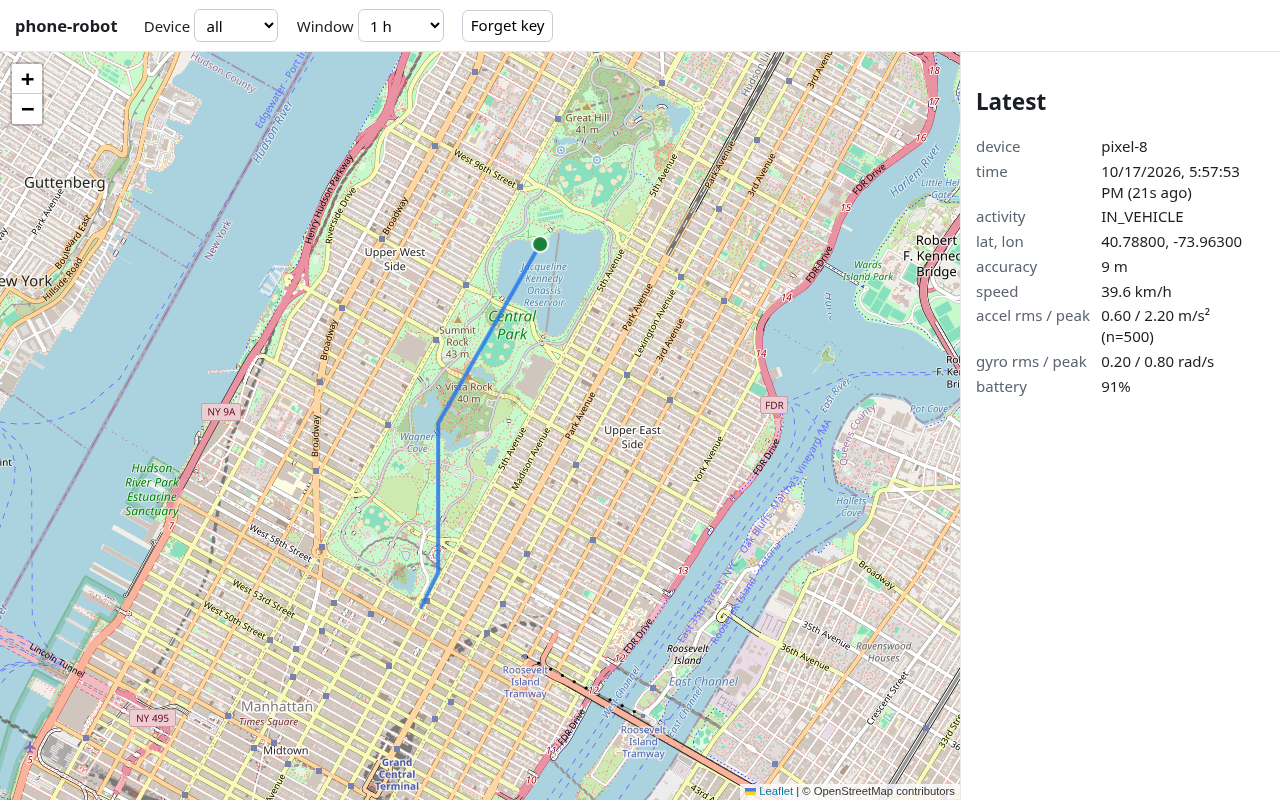
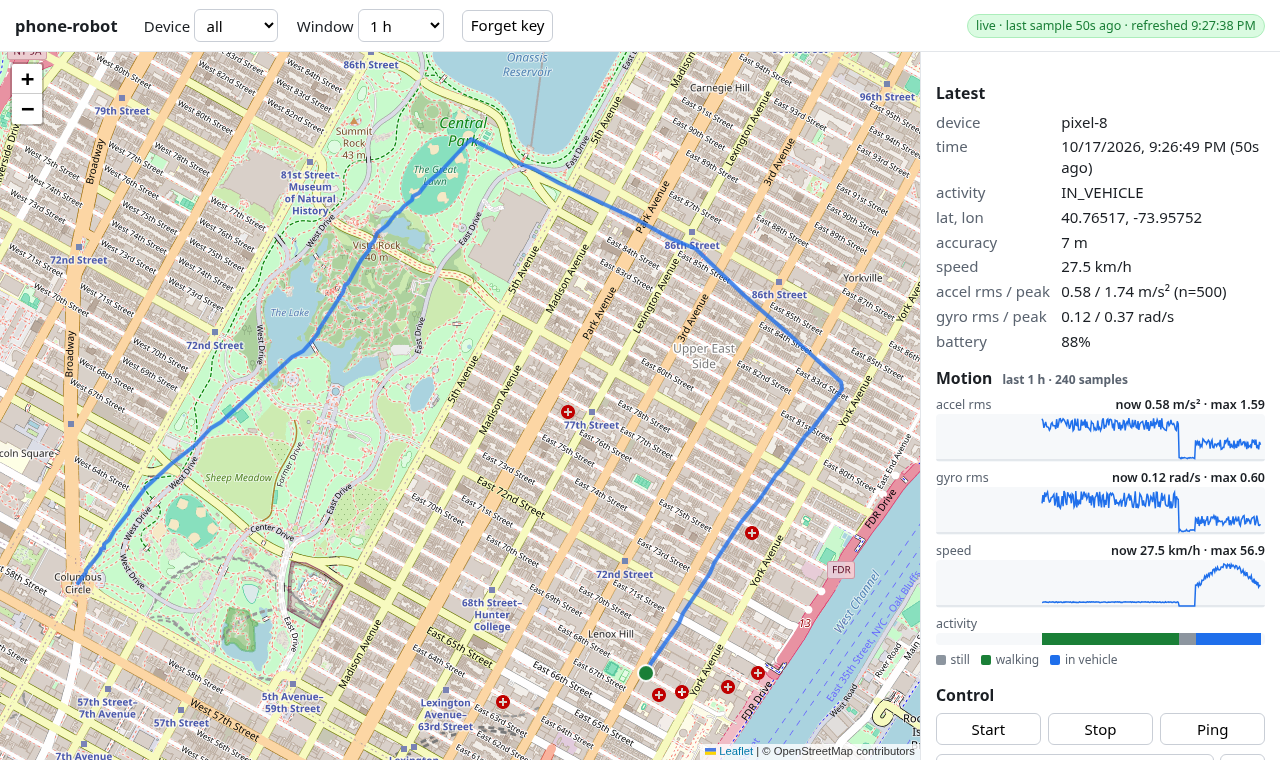
Dashboard: GET /api/recent (all samples, fix or not), motion/speed/activity charts, live/stale badge, 10 s refresh; server.mjs PORT smoke test; railway up deploy steps; new screenshot

diff --git a/server/public/app.js b/server/public/app.js
@@ -72,8 +72,62 @@
 
   function showKeyForm(msg) {
     $('keyform').hidden = false; $('forget').hidden = true;
-    $('control').hidden = true;
+    $('control').hidden = true; $('motion').hidden = true; $('status').hidden = true;
     $('latest').innerHTML = `<p class="${msg ? 'err' : 'muted'}">${esc(msg || 'Enter the view key to load data.')}</p>`;
+  }
+
+  // Freshness badge: the phone samples every 10 s and uploads about once a minute, so "live" allows for one batch.
+  function renderStatus(p) {
+    const b = $('status');
+    b.hidden = false;
+    if (!p) { b.className = 'badge off'; b.textContent = 'no data'; return; }
+    const age = Date.now() - p.t;
+    b.className = `badge ${age < 2.5 * 60_000 ? 'live' : age < 15 * 60_000 ? 'stale' : 'off'}`;
+    b.textContent = `${age < 2.5 * 60_000 ? 'live' : age < 15 * 60_000 ? 'stale' : 'offline'} · last sample ${ago(p.t)} · refreshed ${new Date().toLocaleTimeString()}`;
+  }
+
+  // Tiny SVG charts (no chart library). x is time across the selected window, y is scaled to the window's max.
+  const W = 300, H = 48;
+  function spark(svg, samples, pick, t0, t1) {
+    const pts = samples.map((s) => [s.t, pick(s)]).filter(([, v]) => typeof v === 'number');
+    if (pts.length < 2) { svg.innerHTML = `<text x="4" y="30" class="chart-empty">${pts.length ? 'one sample' : 'no data in window'}</text>`; return null; }
+    const max = Math.max(...pts.map(([, v]) => v)) || 1;
+    const x = (t) => (((t - t0) / Math.max(1, t1 - t0)) * W).toFixed(1);
+    const y = (v) => (H - 2 - (v / max) * (H - 6)).toFixed(1);
+    // Break the line where samples are more than a minute apart, so gaps show as gaps.
+    let d = '';
+    pts.forEach(([t, v], i) => { d += `${i && t - pts[i - 1][0] <= 60_000 ? 'L' : 'M'}${x(t)} ${y(v)}`; });
+    svg.innerHTML = `<line x1="0" x2="${W}" y1="${H - 2}" y2="${H - 2}" class="axis"/><path d="${d}" class="line"/>`;
+    return max;
+  }
+  const ACT = ['STILL', 'WALKING', 'ON_FOOT', 'RUNNING', 'ON_BICYCLE', 'IN_VEHICLE', 'TILTING', 'UNKNOWN'];
+  function strip(svg, samples, t0, t1) {
+    const x = (t) => ((t - t0) / Math.max(1, t1 - t0)) * W;
+    const seen = new Set();
+    // Merge consecutive samples with the same activity into one bar; a gap over a minute ends the bar.
+    const runs = [];
+    samples.forEach((s, i) => {
+      if (!s.activity) return;
+      seen.add(s.activity);
+      const end = samples[i + 1] ? Math.min(samples[i + 1].t, s.t + 60_000) : Math.min(t1, s.t + 10_000);
+      const r = runs.at(-1);
+      if (r && r.a === s.activity && r.end >= s.t) r.end = end; else runs.push({ a: s.activity, start: s.t, end });
+    });
+    svg.innerHTML = runs.map((r) =>
+      `<rect x="${x(r.start).toFixed(2)}" width="${Math.max(0.6, x(r.end) - x(r.start)).toFixed(2)}" y="0" height="10" class="act act-${esc(r.a)}"/>`).join('');
+    $('activity-legend').innerHTML = ACT.filter((a) => seen.has(a)).map((a) => `<span><i class="act-${a}"></i>${a.toLowerCase().replace('_', ' ')}</span>`).join('');
+  }
+  function renderMotion(samples, minutes) {
+    $('motion').hidden = false;
+    const t1 = Date.now(), t0 = t1 - minutes * 60_000;
+    $('motion-span').textContent = `last ${minutes >= 60 ? `${minutes / 60} h` : `${minutes} min`} · ${samples.length} samples`;
+    const last = samples.at(-1) || {};
+    const label = (id, max, now, unit, d) => { $(id).textContent = [now == null ? '' : `now ${fmt(now, d)} ${unit}`, max == null ? '' : `max ${fmt(max, d)}`].filter(Boolean).join(' · '); };
+    const kmh = (s) => (typeof s.loc?.speed === 'number' ? s.loc.speed * 3.6 : undefined);
+    label('accel-now', spark($('accel-chart'), samples, (s) => s.motion?.accel?.rms, t0, t1), last.motion?.accel?.rms, 'm/s²', 2);
+    label('gyro-now', spark($('gyro-chart'), samples, (s) => s.motion?.gyro?.rms, t0, t1), last.motion?.gyro?.rms, 'rad/s', 2);
+    label('speed-now', spark($('speed-chart'), samples, kmh, t0, t1), kmh(last), 'km/h', 1);
+    strip($('activity-strip'), samples, t0, t1);
   }
 
   function renderLatest(p) {
@@ -98,13 +152,16 @@
     try {
       const dev = $('device').value;
       const q = dev ? `device=${encodeURIComponent(dev)}&` : '';
-      const [latest, track] = await Promise.all([api(`/api/latest?${q}`), api(`/api/track?${q}minutes=${$('minutes').value}`)]);
+      const minutes = Number($('minutes').value);
+      const [latest, track, recent] = await Promise.all([api(`/api/latest?${q}`), api(`/api/track?${q}minutes=${minutes}`), api(`/api/recent?${q}minutes=${minutes}&limit=5000`)]);
       $('keyform').hidden = true; $('forget').hidden = false;
       refreshControl().catch((err) => { $('features').textContent = `control unavailable: ${err.message}`; });
       const sel = $('device');
       const opts = ['', ...latest.devices];
       if (sel.options.length !== opts.length) sel.innerHTML = opts.map((d) => `<option value="${esc(d)}">${d ? esc(d) : 'all'}</option>`).join('');
       renderLatest(latest.latest);
+      renderStatus(latest.latest);
+      renderMotion(recent.samples, minutes);
       const pts = track.points.map((p) => [p.loc.lat, p.loc.lon]);
       line.setLatLngs(pts);
       const last = latest.latest && latest.latest.loc ? latest.latest : track.points.at(-1);
@@ -123,6 +180,8 @@
   $('forget').addEventListener('click', () => { localStorage.removeItem('prKey'); key = ''; line.setLatLngs([]); dot.remove(); ring.remove(); showKeyForm(); });
   $('minutes').addEventListener('change', () => { fitted = false; refresh(); });
   $('device').addEventListener('change', () => { fitted = false; refresh(); });
+  // Poll every 10 s (the phone's sample interval) while the tab is visible; catch up as soon as it's shown again.
   refresh();
-  setInterval(refresh, 15000);
+  setInterval(() => { if (!document.hidden) refresh(); }, 10_000);
+  document.addEventListener('visibilitychange', () => { if (!document.hidden) refresh(); });
 })();

diff --git a/server/public/style.css b/server/public/style.css
@@ -24,4 +24,26 @@ pre { background: #f6f8fa; border: 1px solid #e3e6ea; border-radius: 6px; paddin
 .small { font-size: 12px; padding: .1rem .4rem; }
 p.small { padding: 0; margin: .4rem 0; }
 .ok { color: #1a7f37; }
+#status { margin-left: auto; }
+.badge { font-size: 12.5px; padding: .15rem .55rem; border-radius: 999px; border: 1px solid; font-variant-numeric: tabular-nums; }
+.badge.live { color: #1a7f37; border-color: #aceebb; background: #dafbe1; }
+.badge.stale { color: #9a6700; border-color: #f5e0a0; background: #fff8c5; }
+.badge.off { color: #b42318; border-color: #ffcecb; background: #ffebe9; }
+.chart { margin: .35rem 0 .5rem; }
+.chart-label { display: flex; justify-content: space-between; font-size: 12.5px; color: #5b6470; }
+.chart-label b { color: #1b1f24; font-weight: 600; font-variant-numeric: tabular-nums; }
+.chart svg { display: block; width: 100%; height: 48px; background: #f6f8fa; border-radius: 4px; }
+#activity-strip { height: 12px; }
+.chart .line { fill: none; stroke: #1f6feb; stroke-width: 1.5; vector-effect: non-scaling-stroke; }
+.chart .axis { stroke: #d0d7de; stroke-width: 1; vector-effect: non-scaling-stroke; }
+.chart text { font-size: 10px; fill: #5b6470; }
+#activity-strip { shape-rendering: crispEdges; }
+.act-STILL { fill: #8c959f; background: #8c959f; }
+.act-WALKING, .act-ON_FOOT { fill: #1a7f37; background: #1a7f37; }
+.act-RUNNING { fill: #bf8700; background: #bf8700; }
+.act-ON_BICYCLE { fill: #8250df; background: #8250df; }
+.act-IN_VEHICLE { fill: #1f6feb; background: #1f6feb; }
+.act-TILTING, .act-UNKNOWN { fill: #d0d7de; background: #d0d7de; }
+.legend { display: flex; flex-wrap: wrap; gap: .25rem .75rem; color: #5b6470; margin: .2rem 0 0; }
+.legend i { display: inline-block; width: 10px; height: 10px; border-radius: 2px; margin-right: .3rem; vertical-align: -1px; }
 @media (max-width: 760px) { main { grid-template-columns: 1fr; grid-template-rows: 60vh auto; height: auto; } aside { border-left: 0; border-top: 1px solid #e3e6ea; } }

diff --git a/server/public/index.html b/server/public/index.html
@@ -20,11 +20,20 @@
     <option value="15">15 min</option><option value="60" selected>1 h</option><option value="360">6 h</option><option value="1440">24 h</option>
   </select></label>
   <button id="forget" type="button" hidden>Forget key</button>
+  <span id="status" class="badge" hidden></span>
 </header>
 <main>
   <div id="map" aria-label="map of recent points"></div>
   <aside>
     <div id="latest"><p class="muted">Enter the view key to load data.</p></div>
+    <section id="motion" hidden>
+      <h2>Motion <span id="motion-span" class="muted small"></span></h2>
+      <div class="chart"><div class="chart-label">accel rms <b id="accel-now"></b></div><svg id="accel-chart" viewBox="0 0 300 48" preserveAspectRatio="none" role="img" aria-label="accelerometer rms over the window"></svg></div>
+      <div class="chart"><div class="chart-label">gyro rms <b id="gyro-now"></b></div><svg id="gyro-chart" viewBox="0 0 300 48" preserveAspectRatio="none" role="img" aria-label="gyroscope rms over the window"></svg></div>
+      <div class="chart"><div class="chart-label">speed <b id="speed-now"></b></div><svg id="speed-chart" viewBox="0 0 300 48" preserveAspectRatio="none" role="img" aria-label="speed over the window"></svg></div>
+      <div class="chart"><div class="chart-label">activity</div><svg id="activity-strip" viewBox="0 0 300 10" preserveAspectRatio="none" role="img" aria-label="activity over the window"></svg></div>
+      <p id="activity-legend" class="legend small"></p>
+    </section>
     <section id="control" hidden>
       <h2>Control</h2>
       <div class="row">

diff --git a/README.md b/README.md
@@ -4,12 +4,12 @@
 
 **Milestones 1 and 2 of the phone-robot plan.** An Android phone logs its GPS position, activity (still, walking, driving)
 and a motion summary every 10 seconds and streams them to your own small server, which stores everything and shows
-the latest point and recent track on a map. **Milestone 2** adds remote start/stop/ping, a small task planner
+the latest point, the recent track and the motion history on a live dashboard. **Milestone 2** adds remote start/stop/ping, a small task planner
 with three tools, a code-level safety layer, an append-only audit log and a DIS dependency gate (see below).
 There are still no calls and no SMS.
 
 ![server page (demo data)](docs/server-page.png)
-*The server page with demo data: a walk, then a short drive.*
+*The server page with demo data: a walk through Central Park, a short stop, then a drive. It refreshes every 10 s.*
 
 ```
 android/   Kotlin app (minSdk 26, targetSdk 35): settings screen + foreground service → batches → POST /ingest
@@ -41,11 +41,16 @@ npm test
 | `POST /ingest` | `Authorization: Bearer $INGEST_TOKEN` | body `{device, samples:[{t, loc?, activity?, transitions?, motion?, battery?, charging?}]}`, max 500 samples / 1 MB. The server validates it and drops unknown fields. |
 | `GET /healthz` | none | `{ok, points, uptimeS}`. Contains no location data. |
 | `GET /` | none (shell only) | the map page. Open `https://<server>/#key=<VIEW_TOKEN>`: the key stays in the URL fragment, so it never reaches server logs, and is saved in the browser. |
-| `GET /api/latest`, `GET /api/track?minutes=60&device=` | `Authorization: Bearer $VIEW_TOKEN` | JSON for the page |
+| `GET /api/latest`, `GET /api/track?minutes=60&device=` | `Authorization: Bearer $VIEW_TOKEN` | JSON for the page: the newest sample, and the samples with a fix (the map track) |
+| `GET /api/recent?minutes=60&limit=360&device=` | `Authorization: Bearer $VIEW_TOKEN` | every sample in the window, with or without a fix, oldest first, in the stored ingest format (`{device, t, receivedAt, loc?, activity?, transitions?, motion?, battery?, charging?}`). `limit` keeps the newest (max 5000), `minutes` max 7 days. Used for the motion charts. |
 | `GET /commands?device=`, `POST /commands/ack`, `POST /devices/fcm` | `INGEST_TOKEN` (device) | milestone 2: the phone fetches and acknowledges commands, and registers its FCM token |
 | `POST /commands`, `POST /tasks`, `GET /audit`, `GET /api/commands`, `GET /api/features` | `VIEW_TOKEN` (owner) | milestone 2: see below |
 
-The page loads Leaflet 1.9.4 from unpkg (pinned with SRI) and map tiles from OpenStreetMap. It sends a strict CSP and has no tracking.
+**The page** shows the track as a polyline with the latest position and its accuracy ring, the latest sample (activity, speed,
+accelerometer and gyroscope, battery, transitions), and charts of accel rms, gyro rms, speed and activity over the selected window.
+Gaps of more than a minute are drawn as gaps. A badge says **live** (last sample under 2.5 min old, i.e. within one upload batch),
+**stale** (under 15 min) or **offline**. It polls every 10 s while the tab is visible.
+It loads Leaflet 1.9.4 from unpkg (pinned with SRI) and map tiles from OpenStreetMap. The charts are plain SVG. It sends a strict CSP and has no tracking.
 
 **Docker:** `docker build -t phone-robot-server server && docker run -p 8080:8080 -e INGEST_TOKEN=... -v $PWD/data:/data phone-robot-server`
 
@@ -54,6 +59,19 @@ The page loads Leaflet 1.9.4 from unpkg (pinned with SRI) and map tiles from Ope
 2. Add a volume mounted at `/data`, and set `RAILWAY_RUN_UID=0` (Railway volumes are root-owned; the image otherwise runs as `node`).
 3. Set `INGEST_TOKEN` (and `VIEW_TOKEN`) as variables.
 4. Generate a domain. The app needs that `https://` URL.
+
+Or from the CLI, deploying straight from your checkout (no GitHub link needed):
+```bash
+cd server
+railway init                                  # or: railway link, for an existing project
+railway add --service phone-robot-server && railway service link phone-robot-server
+railway variable set INGEST_TOKEN=$(openssl rand -hex 24) VIEW_TOKEN=$(openssl rand -hex 24) RAILWAY_RUN_UID=0 --skip-deploys
+railway volume add --mount-path /data
+railway up                                    # uploads this folder; railway.json builds the Dockerfile
+railway domain                                # generates the https:// URL for the app
+```
+Read the tokens back with `railway variable list`: the app needs `INGEST_TOKEN`, the page needs `VIEW_TOKEN`.
+The server listens on `$PORT` (Railway sets it), and `/healthz` answers once it's listening.
 
 **Watch it with [DIS](https://github.com/fitzyracing1/DIS):**
 ```bash
